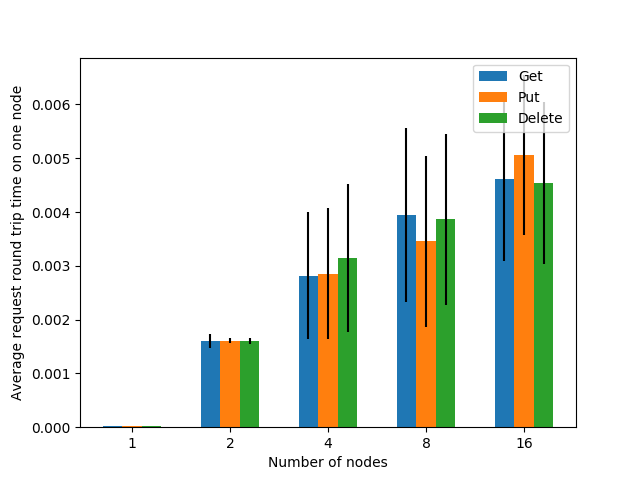
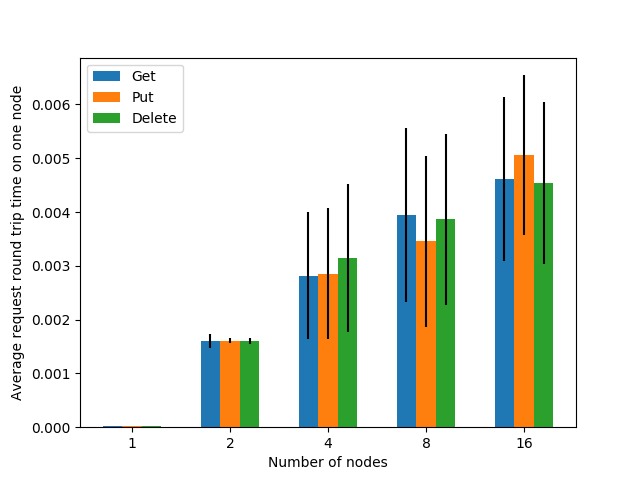
Move legend to the left.

Changed region(s): [[0.125, 0.125, 0.2812, 0.2812], [0.75, 0.125, 0.875, 0.2812]]

diff --git a/plot.py b/plot.py
@@ -7,11 +7,11 @@ mpl.use("TkAgg")
 import matplotlib.pylab as plt
 
 filenames = [
-    "measure_1.csv",
-    "measure_2.csv",
-    "measure_4.csv",
-    "measure_8.csv",
-    "measure_16.csv",
+    "measure_4_1.csv",
+    "measure_4_2.csv",
+    "measure_4_4.csv",
+    "measure_4_8.csv",
+    "measure_4_16.csv",
 ]
 
 gets = []
@@ -72,8 +72,8 @@ p_delete = plt.bar(ind + width / 3, delete_means, width / 3, yerr=delete_stds)
 
 plt.ylabel("Average request round trip time on one node")
 plt.xlabel("Number of nodes")
-plt.xticks(ind, [(2 ** i) for i in range(0, N)])
-plt.legend((p_get[0], p_put[0], p_delete[0]), ("Get", "Put", "Delete"))
+plt.xticks(ind, [4*(2 ** i) for i in range(0, N)])
+plt.legend((p_get[0], p_put[0], p_delete[0]), ("Get", "Put", "Delete"), loc=2)
 plt.show()
 
 
